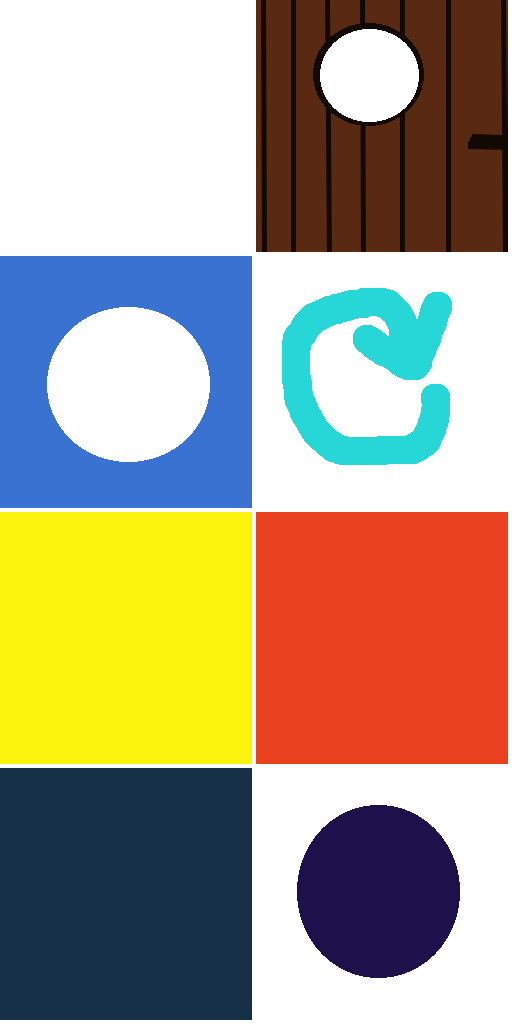
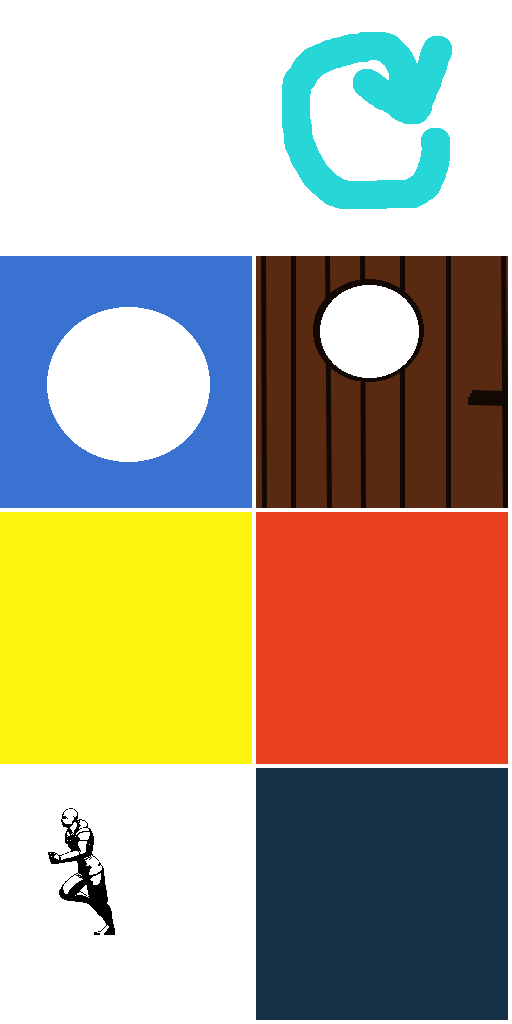
Add files via upload

diff --git a/scripts/objRefTable.js b/scripts/objRefTable.js
@@ -15,7 +15,10 @@ self.C3_GetObjectRefTable = function () {
 		C3.Plugins.Text.Acts.SetVisible,
 		C3.Plugins.Button.Cnds.OnClicked,
 		C3.Plugins.System.Cnds.EveryTick,
-		C3.Plugins.Text.Acts.SetText
+		C3.Plugins.Text.Acts.SetText,
+		C3.Plugins.System.Cnds.Compare,
+		C3.Behaviors.Platform.Exps.VectorX,
+		C3.Plugins.Sprite.Acts.SetMirrored
 	];
 };
 self.C3_JsPropNameTable = [
@@ -33,6 +36,7 @@ self.C3_JsPropNameTable = [
 	{Botão: 0},
 	{Texto3: 0},
 	{Sprite3: 0},
+	{ninja_10KDStudios_runbackwards_: 0},
 	{moedas: 0}
 ];
 
@@ -47,5 +51,6 @@ self.InstanceType = {
 	Sprite2: class extends self.ISpriteInstance {},
 	Botão: class extends self.IButtonInstance {},
 	Texto3: class extends self.ITextInstance {},
-	Sprite3: class extends self.ISpriteInstance {}
+	Sprite3: class extends self.ISpriteInstance {},
+	ninja_10KDStudios_runbackwards_: class extends self.ISpriteInstance {}
 }

diff --git a/scripts/c3runtime.js b/scripts/c3runtime.js
@@ -1222,6 +1222,11 @@ self.C3_ExpressionFuncs = [
 		p => {
 			const v0 = p._GetNode(0).GetVar();
 			return () => v0.GetValue();
+		},
+		() => 14,
+		p => {
+			const n0 = p._GetNode(0);
+			return () => n0.ExpBehavior();
 		}
 ];
 
